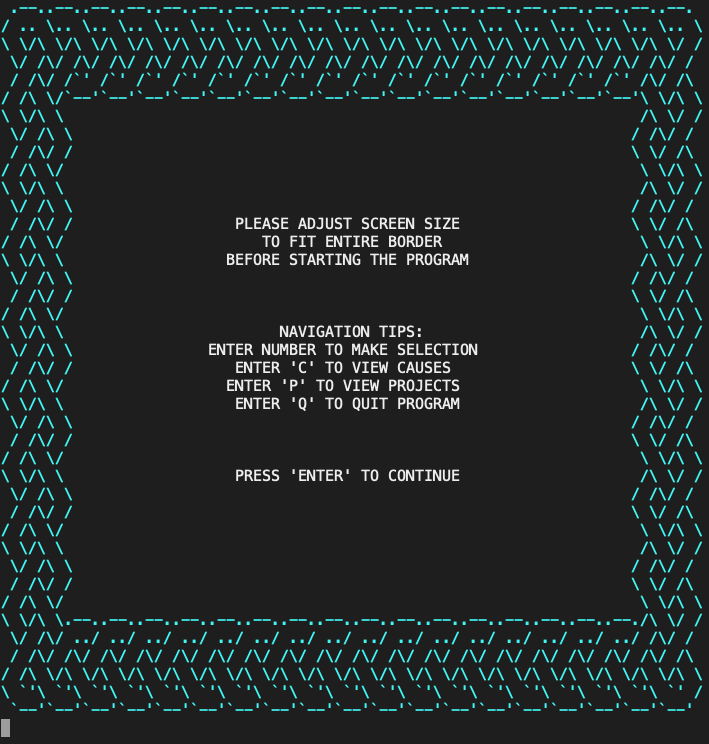
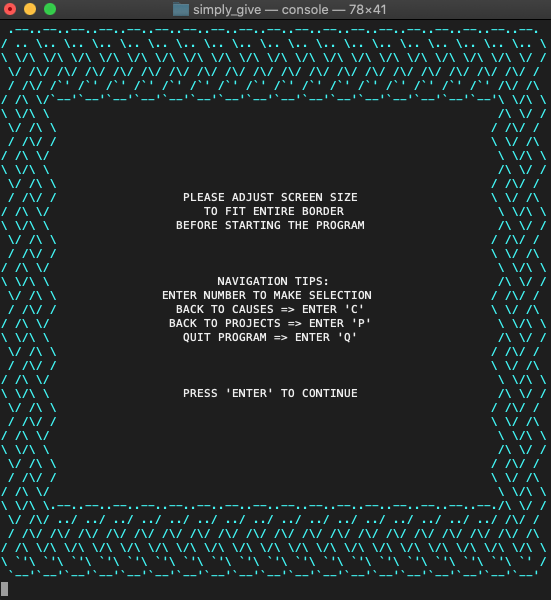
Add more detailed photo for README.md

diff --git a/lib/CLI.rb b/lib/CLI.rb
@@ -229,9 +229,9 @@ class SimplyGive::CLI   # interacts with the user
     puts "/ /""\\"" ""\\""/                                                                ""\\"" ""\\""/""\\"" ""\\""".colorize(:light_cyan)
     puts """\\"" ""\\""/""\\"" ""\\".colorize(:light_cyan) + "                        NAVIGATION TIPS:".colorize(:light_white) + "                        /""\\"" ""\\""/ /".colorize(:light_cyan)
     puts " ""\\""/ /""\\"" ""\\".colorize(:light_cyan) + "               ENTER NUMBER TO MAKE SELECTION".colorize(:light_white) + "                 / /""\\""/ /".colorize(:light_cyan)
-    puts " / /""\\""/ /".colorize(:light_cyan) + "                  ENTER 'C' TO VIEW CAUSES".colorize(:light_white) + "                    ""\\"" ""\\""/ /""\\""".colorize(:light_cyan)
-    puts "/ /""\\"" ""\\""/".colorize(:light_cyan) + "                  ENTER 'P' TO VIEW PROJECTS".colorize(:light_white) + "                    ""\\"" ""\\""/""\\"" ""\\""".colorize(:light_cyan)
-    puts """\\"" ""\\""/""\\"" ""\\".colorize(:light_cyan) + "                   ENTER 'Q' TO QUIT PROGRAM".colorize(:light_white) + "                    /""\\"" ""\\""/ /".colorize(:light_cyan)
+    puts " / /""\\""/ /".colorize(:light_cyan) + "                 BACK TO CAUSES => ENTER 'C'".colorize(:light_white) + "                  ""\\"" ""\\""/ /""\\""".colorize(:light_cyan)
+    puts "/ /""\\"" ""\\""/".colorize(:light_cyan) + "                 BACK TO PROJECTS => ENTER 'P'".colorize(:light_white) + "                  ""\\"" ""\\""/""\\"" ""\\""".colorize(:light_cyan)
+    puts """\\"" ""\\""/""\\"" ""\\".colorize(:light_cyan) + "                   QUIT PROGRAM => ENTER 'Q'".colorize(:light_white) + "                    /""\\"" ""\\""/ /".colorize(:light_cyan)
     puts " ""\\""/ /""\\"" ""\\""                                                              / /""\\""/ /".colorize(:light_cyan)
     puts " / /""\\""/ /                                                              ""\\"" ""\\""/ /""\\""".colorize(:light_cyan)
     puts "/ /""\\"" ""\\""/                                                                ""\\"" ""\\""/""\\"" ""\\""".colorize(:light_cyan)
